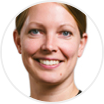
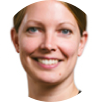
skolporten fix

Changed region(s): [[0.0882, 0.0, 0.8824, 1.0]]

diff --git a/public/css/style.css b/public/css/style.css
@@ -6039,6 +6039,11 @@ hr, .divider {
 .wrapper {
   margin-top: 30px; }
 
+.round {
+  border-radius: 50%;
+  overflow: hidden;
+  border: 2px solid #EEEEEE; }
+
 header {
   background-color: #fff;
   transition: all 0.4s ease;
@@ -6211,9 +6216,11 @@ header {
     border: 0px solid transparent;
     overflow: hidden; }
     #news-carousel .news-card .thumbnail {
-      width: 110px;
-      padding-left: 14px;
-      float: left; }
+      margin-left: 15px;
+      float: left;
+      height: 102px;
+      width: 102px;
+      overflow: hidden; }
     #news-carousel .news-card .article {
       width: 60%;
       float: left;

diff --git a/src/sass/header.scss b/src/sass/header.scss
@@ -213,9 +213,12 @@ header {
     border:0px solid transparent;
     overflow: hidden;
     .thumbnail {
-      width: 110px;
-      padding-left: 14px;
+      // padding-left: 14px;
+      margin-left: 15px;
       float: left;
+      height: 102px;
+      width: 102px;
+      overflow:hidden;
     }
     .article {
       width: 60%;

diff --git a/src/sass/base.scss b/src/sass/base.scss
@@ -45,3 +45,9 @@ hr, .divider {
 .wrapper {
   margin-top: 30px;
 }
+
+.round {
+  border-radius: 50%;
+  overflow:hidden;
+  border:2px solid #EEEEEE;
+}

diff --git a/public/partials/header.php b/public/partials/header.php
@@ -80,8 +80,8 @@
                     <div class="carousel-item active">
                       <div class="news-card">
                         <div class="row">
-                          <div class="thumbnail">
-                            <img src="images/dummy-avatar.png" class="avatar"/>
+                          <div class="thumbnail round">
+                            <img src="images/dummy-avatar-square.jpg" class="avatar"/>
                           </div>
                           <div class="article">
                               <h6>Moa Duvarci Engman</h6>
@@ -94,7 +94,7 @@
                     <div class="carousel-item">
                       <div class="news-card">
                         <div class="row">
-                          <div class="thumbnail">
+                          <div class="thumbnail round">
                             <img src="images/dummy-avatar.png" class="avatar"/>
                           </div>
                           <div class="article">
